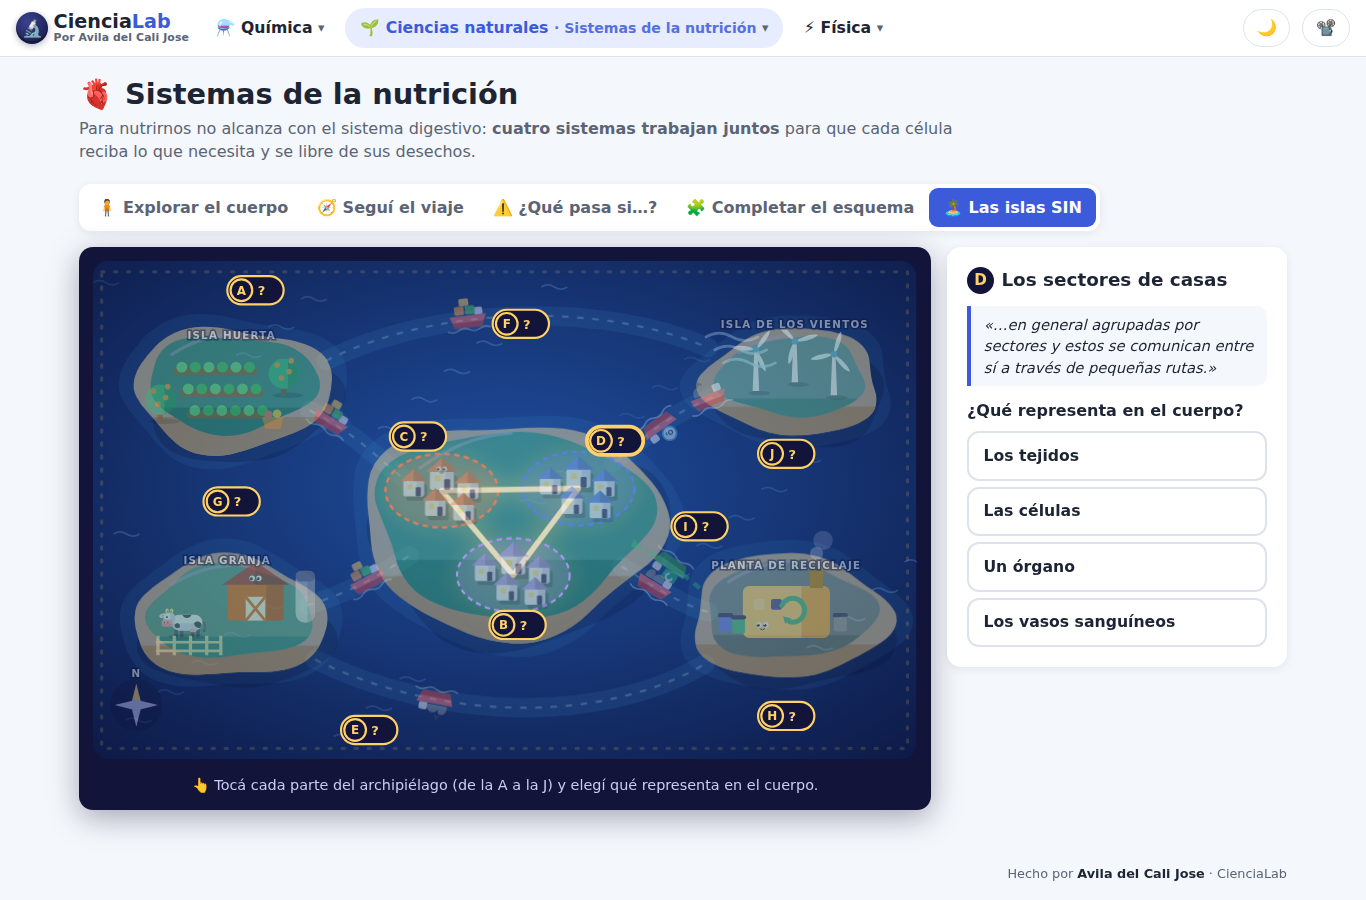
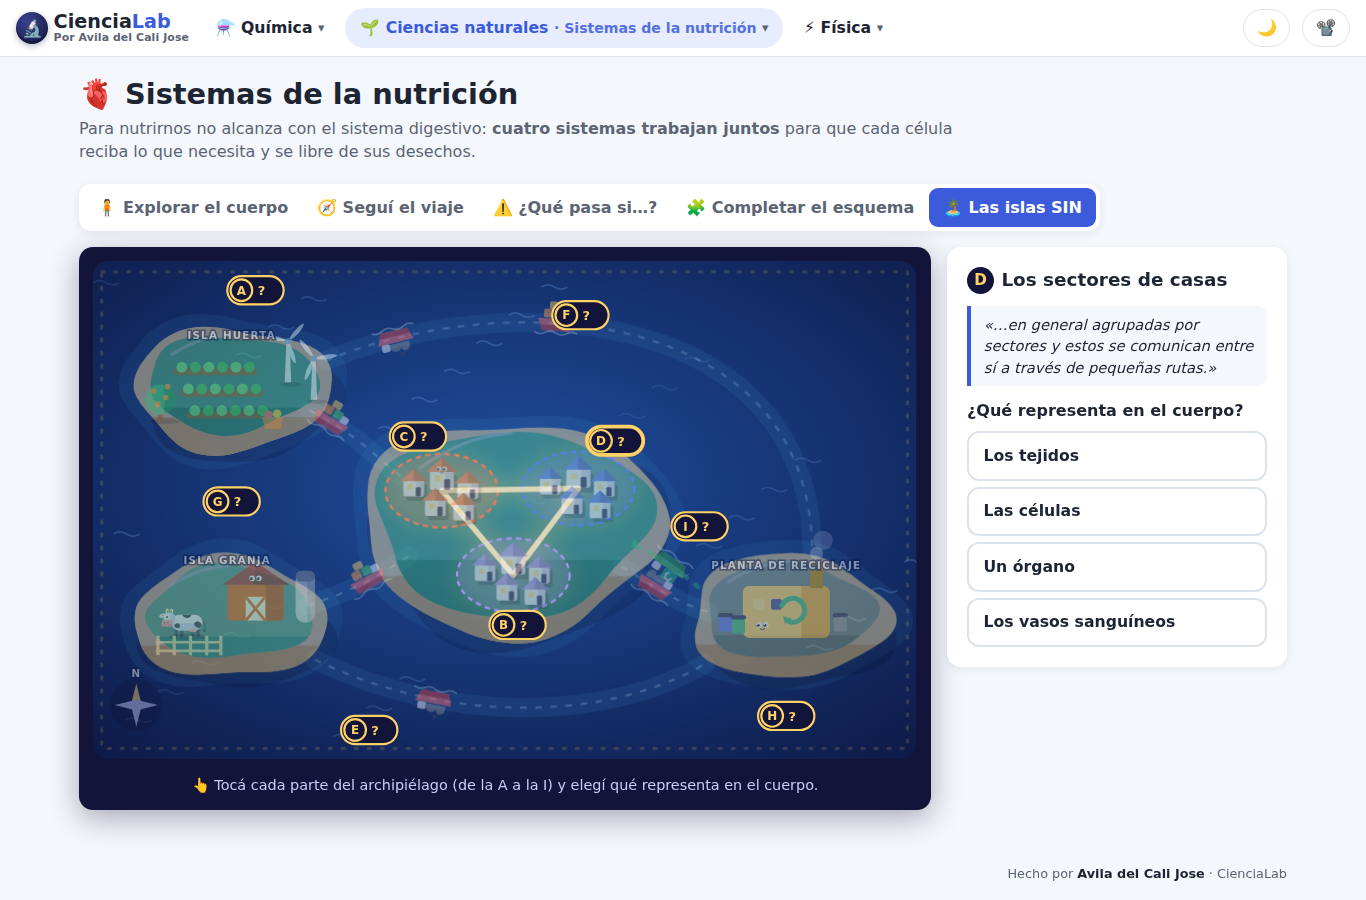
Islas SIN: los molinos pasan a la isla Huerta y se quita la isla de los Vientos
Claude-Session: https://claude.ai/code/session_011T9FGBRCHuB5KxQLptMiLj

Changed region(s): [[0.4612, 0.3422, 0.6457, 0.5289], [0.2767, 0.3111, 0.4612, 0.4044], [0.1845, 0.3733, 0.246, 0.4356]]

diff --git a/js/nutricion-extra.js b/js/nutricion-extra.js
@@ -264,7 +264,7 @@ const NutriExtra = (function () {
     barcos: { l: 'E', n: 'Los barcos', pill: [255, 433], ok: 'sangre', otras: ['vasos', 'digestivo', 'rinon'],
       cita: 'Se utilizan barcos que navegan por caminos acuáticos y transportan productos alimenticios y materiales de descarte.',
       expl: 'Los barcos son la <b>sangre</b>: lleva los nutrientes y el oxígeno a cada célula y recoge sus desechos.' },
-    caminos: { l: 'F', n: 'Los caminos acuáticos', pill: [395, 58], ok: 'vasos', otras: ['sangre', 'tejido', 'respiratorio'],
+    caminos: { l: 'F', n: 'Los caminos acuáticos', pill: [450, 50], ok: 'vasos', otras: ['sangre', 'tejido', 'respiratorio'],
       cita: 'Las islas se comunican mediante barcos que navegan por caminos acuáticos.',
       expl: 'Los caminos son los <b>vasos sanguíneos</b> (arterias, venas y capilares). Con la sangre y el corazón forman el <b>sistema circulatorio</b>, que conecta a todos.' },
     huerta: { l: 'G', n: 'Las islas Huerta y Granja', pill: [128, 222], ok: 'digestivo', otras: ['respiratorio', 'rinon', 'celula'],
@@ -276,9 +276,6 @@ const NutriExtra = (function () {
     vuelve: { l: 'I', n: 'Lo que vuelve a las islas', pill: [560, 245], ok: 'reabs', otras: ['orina', 'sangre', 'digestivo'],
       cita: 'Aquellos productos reutilizables los envía nuevamente a las islas.',
       expl: 'En los riñones, el agua, la glucosa y las sales que todavía sirven se <b>reabsorben</b> y vuelven a la sangre. Lo que verdaderamente no sirve sale con la <b>orina</b>.' },
-    vientos: { l: 'J', n: 'La isla de los Vientos', pill: [640, 178], ok: 'respiratorio', otras: ['digestivo', 'vasos', 'rinon'], extra: true,
-      cita: 'Esta isla no aparece en el texto: la agregamos para completar los sistemas de la nutrición. Sus molinos toman aire fresco, que los barcos reparten, y se llevan el aire usado.',
-      expl: 'Es como el <b>sistema respiratorio</b>: incorpora el <b>oxígeno</b> del aire y elimina el <b>dióxido de carbono</b>.' },
   };
   const CASOS = [
     { id: 'tormenta', t: '⛈ Hay una <b>tormenta</b> y los barcos no pueden navegar.', ok: 'circulatorio', e: 'Si la sangre no circula, las células se quedan sin nutrientes ni oxígeno, y nadie retira sus desechos.' },
@@ -289,7 +286,6 @@ const NutriExtra = (function () {
     { id: 'queso', t: '🧀 La isla Granja <b>transforma la leche en queso y manteca</b> antes de repartirla.', ok: 'digestivo', e: 'El sistema digestivo transforma los alimentos en nutrientes pequeños que pueden pasar a la sangre.' },
     { id: 'casa', t: '🏠 Cada casa <b>usa lo que recibe</b> para vivir y descarta materiales inservibles.', ok: 'celula', e: 'Las células usan los nutrientes y el oxígeno para obtener energía, y al hacerlo producen desechos.' },
     { id: 'retiran', t: '🛥 Los barcos <b>recogen los descartes</b> de las casas y los llevan a la planta.', ok: 'circulatorio', e: 'La sangre recoge los desechos de las células y los lleva hasta los riñones (y el dióxido de carbono, hasta los pulmones).' },
-    { id: 'molinos', t: '🌬 Los <b>molinos de la isla de los Vientos</b> dejan de girar.', ok: 'respiratorio', e: 'Sin el sistema respiratorio no entra oxígeno ni sale el dióxido de carbono: las células no pueden obtener energía.' },
   ];
   const RONDA = 5;
   let ciu = null;
@@ -323,8 +319,7 @@ const NutriExtra = (function () {
     granja: 'M198,318 C240,305 265,290 292,272',
     planta: 'M488,282 C525,305 545,318 568,324',
     vuelta: 'M560,302 C540,285 520,270 498,262',
-    vientos: 'M572,126 C535,140 512,160 480,186',
-    arriba: 'M215,92 C320,40 470,38 568,80',
+    arriba: 'M215,92 C380,24 660,40 664,266',
     abajo: 'M205,368 C320,425 470,428 565,372',
   };
   const barco = (carga, casco = ['#ff6b6b', '#d63c3c']) => {
@@ -346,8 +341,10 @@ const NutriExtra = (function () {
     // G: islas Huerta y Granja
     const fila = (x, y) => `<path d="M${x},${y} h70" stroke="#8a5a35" stroke-width="7" stroke-linecap="round"/>${[0, 1, 2, 3, 4, 5].map(i => `<circle cx="${x + 4 + i * 12.5}" cy="${y - 4}" r="5" fill="${i % 2 ? '#40c057' : '#69db7c'}"/>`).join('')}`;
     const arbol = (x, y) => `<g>${Arte.sombra(x + 4, y + 16, 14)}<rect x="${x - 2.5}" y="${y}" width="5" height="16" rx="2" fill="#7a4a2a"/>${dosTonos(`<circle cx="${x}" cy="${y - 4}" r="14" fill="FILL"/>`, '#2fb67c', '#1f8f5e', { x: x + 4 })}${[[-6, -8], [5, -2], [-2, 4], [7, -12]].map(([a, b]) => `<circle cx="${x + a}" cy="${y - 4 + b}" r="2.6" fill="#ff922b"/>`).join('')}</g>`;
+    const molino = (x, y, dur) => `<g>${Arte.sombra(x + 3, y + 2, 10)}<path d="M${x - 3},${y} L${x - 1.5},${y - 38} L${x + 1.5},${y - 38} L${x + 3},${y} Z" fill="#f4f1ff"/>
+      <g transform="translate(${x} ${y - 38})"><g>${[0, 120, 240].map(a => `<path d="M0,0 C3,-6 3,-18 0,-22 C-3,-18 -2,-6 0,0 Z" fill="#dff3ff" transform="rotate(${a})"/>`).join('')}<animateTransform attributeName="transform" type="rotate" from="0" to="360" dur="${dur}s" repeatCount="indefinite"/></g><circle r="3" fill="#48a6d9"/></g></g>`;
     const huerta = `<g class="nx-lugar" data-l="huerta">
-      ${fila(78, 102)}${fila(84, 122)}${fila(90, 142)}${arbol(176, 108)}${arbol(62, 132)}
+      ${fila(78, 102)}${fila(84, 122)}${fila(90, 142)}${arbol(62, 132)}${molino(180, 112, 3)}${molino(204, 128, 2.4)}
       <g transform="translate(166 146)"><path d="M-10,-2 h20 l-3,11 h-14 Z" fill="#c98a3d"/><circle cx="-4" cy="-4" r="4" fill="#ff6b6b"/><circle cx="4" cy="-5" r="4" fill="#ffd43b"/></g>
       ${rotulo(128, 72, 'ISLA HUERTA')}
       <g transform="translate(0 0)">
@@ -371,12 +368,6 @@ const NutriExtra = (function () {
         ${carita(-22, 6, 2.6)}
         ${[[-56, 12, '#4c6ef5'], [-44, 14, '#2fb67c'], [50, 12, '#868e96']].map(([x, y, c]) => `<rect x="${x - 6}" y="${y - 14}" width="12" height="14" rx="2" fill="${c}"/><rect x="${x - 7}" y="${y - 17}" width="14" height="4" rx="2" fill="#1f2256"/>`).join('')}</g>
       ${rotulo(640, 284, 'PLANTA DE RECICLAJE')}</g>`;
-    // J: isla de los Vientos (extra)
-    const molino = (x, y, dur) => `<g>${Arte.sombra(x + 3, y + 2, 10)}<path d="M${x - 3},${y} L${x - 1.5},${y - 38} L${x + 1.5},${y - 38} L${x + 3},${y} Z" fill="#f4f1ff"/>
-      <g transform="translate(${x} ${y - 38})"><g>${[0, 120, 240].map(a => `<path d="M0,0 C3,-6 3,-18 0,-22 C-3,-18 -2,-6 0,0 Z" fill="#dff3ff" transform="rotate(${a})"/>`).join('')}<animateTransform attributeName="transform" type="rotate" from="0" to="360" dur="${dur}s" repeatCount="indefinite"/></g><circle r="3" fill="#48a6d9"/></g></g>`;
-    const vientos = `<g class="nx-lugar" data-l="vientos">${molino(612, 120, 3)}${molino(648, 112, 2.4)}${molino(684, 124, 3.4)}
-      ${[0, 1, 2].map(i => `<path d="M${566 + i * 8},${70 + i * 12} q12,-7 24,0 t24,0" stroke="#bfe8ff" stroke-width="2.5" fill="none" stroke-linecap="round" opacity="0.7"/>`).join('')}
-      ${rotulo(648, 62, 'ISLA DE LOS VIENTOS')}</g>`;
     // A: el archipiélago (cartel y rosa de los vientos)
     const archi = `<g class="nx-lugar" data-l="archi"><rect x="14" y="12" width="96" height="30" fill="transparent"/>
       <g transform="translate(40 410)"><circle r="24" fill="#12143a" opacity="0.6"/>${[0, 90, 180, 270].map(a => `<path d="M0,-20 L5,0 L0,4 L-5,0 Z" fill="${a ? '#c9ccf5' : '#ffd166'}" transform="rotate(${a})"/>`).join('')}<text y="-26" text-anchor="middle" class="nx-isla-rot">N</text></g>
@@ -384,21 +375,21 @@ const NutriExtra = (function () {
     // E / I: barcos (los verdes llevan lo reutilizable de vuelta)
     const barcos = `<g class="nx-lugar" data-l="barcos">
       ${navegar('huerta', 'comida', 7, 0)}${navegar('granja', 'comida', 7.5, -3)}${navegar('planta', 'desecho', 6, -1)}
-      ${navegar('vientos', 'aire', 6.5, -2)}${navegar('vientos', 'desecho', 6.5, -5, true)}${navegar('arriba', 'comida', 14, -4)}${navegar('abajo', 'desecho', 15, -9, true)}</g>`;
+      ${navegar('arriba', 'comida', 14, -4)}${navegar('arriba', 'desecho', 14, -11, true)}${navegar('abajo', 'desecho', 15, -9, true)}</g>`;
     const vuelve = `<g class="nx-lugar" data-l="vuelve"><path d="${RUTAS.vuelta}" stroke="#2fb67c" stroke-width="4" fill="none" stroke-dasharray="7 6" opacity="0.8"/><path d="M500,256 l-4,8 l9,1 Z" fill="#2fb67c"/>
       ${navegar('vuelta', 'recicla', 5, -1, false, ['#51cf66', '#2f9e44'])}</g>`;
     return `<defs><radialGradient id="nx-mar" cx="0.5" cy="0.45" r="0.8"><stop offset="0" stop-color="#1f4fa0"/><stop offset="1" stop-color="#0c1640"/></radialGradient></defs>
       <rect width="${CW}" height="${CH}" rx="14" fill="url(#nx-mar)"/>${olas}${archi}
       ${caminos}
-      <g class="nx-lugar" data-l="isla">${isla(128, 118, 92, 58)}${isla(126, 330, 90, 56, ['#8ce99a', '#5fd38d'])}${isla(386, 246, 140, 100)}${isla(642, 328, 92, 58, ['#b2c79a', '#94ab7c'])}${isla(646, 112, 82, 50, ['#9be3b0', '#6fcf8f'])}</g>
-      ${sectores}${casas}${huerta}${planta}${vientos}${barcos}${vuelve}`;
+      <g class="nx-lugar" data-l="isla">${isla(128, 118, 92, 58)}${isla(126, 330, 90, 56, ['#8ce99a', '#5fd38d'])}${isla(386, 246, 140, 100)}${isla(642, 328, 92, 58, ['#b2c79a', '#94ab7c'])}</g>
+      ${sectores}${casas}${huerta}${planta}${barcos}${vuelve}`;
   }
 
   function islas(cont) {
     ciu = { hechos: {}, sel: null, error: null, etapa: 'unir', casos: [], i: 0, aciertos: 0, resp: null, texto: true };
     cont.innerHTML = `<div class="nu-grid">
         <div class="panel nu-escena"><div class="nx-scroll"><svg id="nx-csvg" viewBox="0 0 ${CW} ${CH}" role="img" aria-label="El archipiélago de las islas SIN"><g id="nx-cfijo"></g><g id="nx-cpills"></g></svg></div>
-          <p class="nu-ayuda-esc">👆 Tocá cada parte del archipiélago (de la A a la J) y elegí qué representa en el cuerpo.</p></div>
+          <p class="nu-ayuda-esc">👆 Tocá cada parte del archipiélago (de la A a la I) y elegí qué representa en el cuerpo.</p></div>
         <aside class="panel nu-info" id="nx-cinfo"></aside>
       </div>`;
     ciu.cont = cont;
